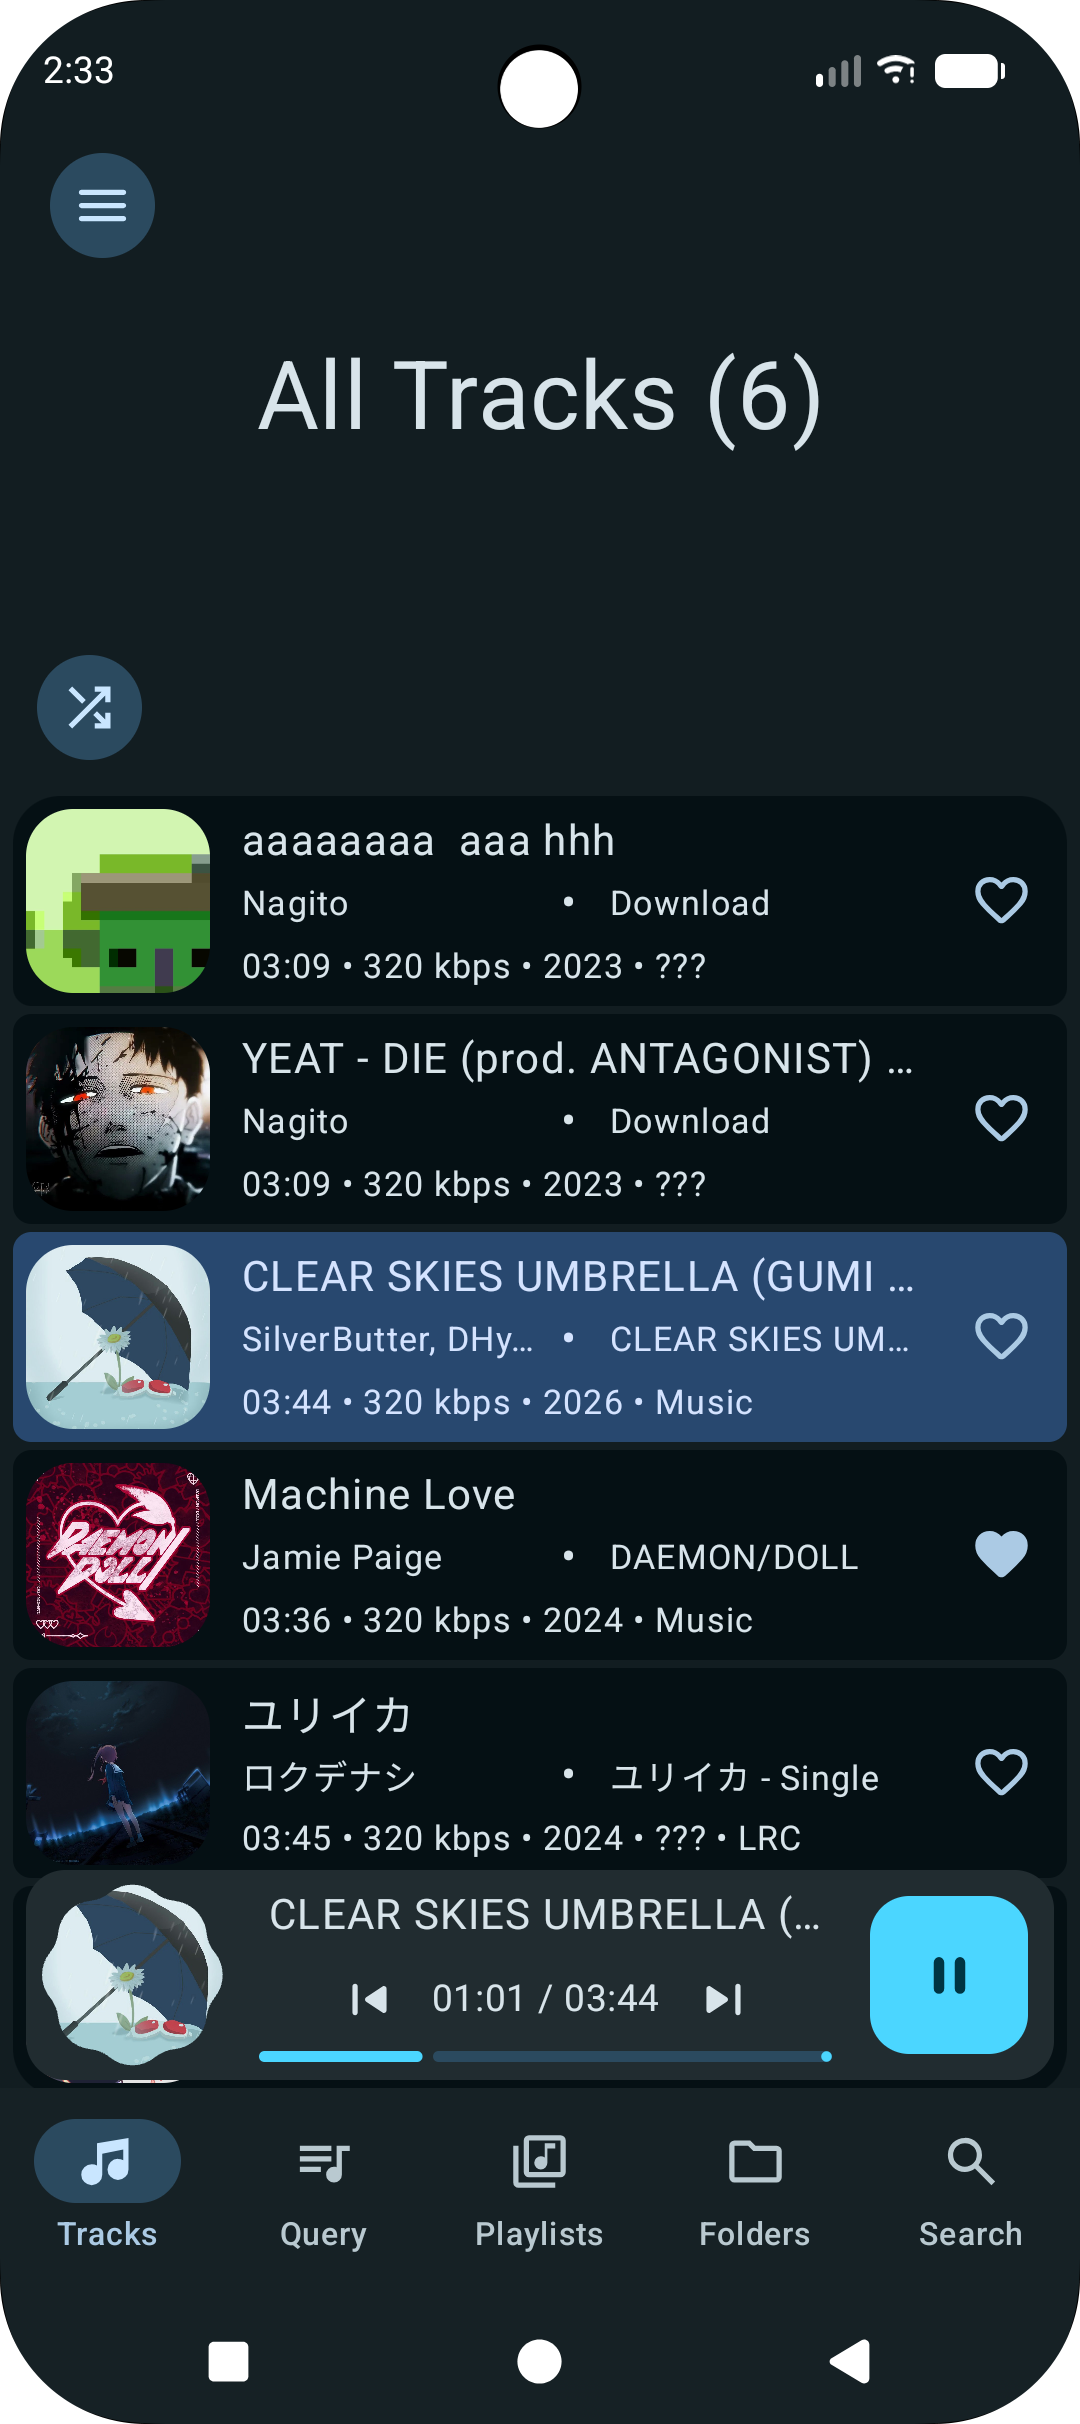
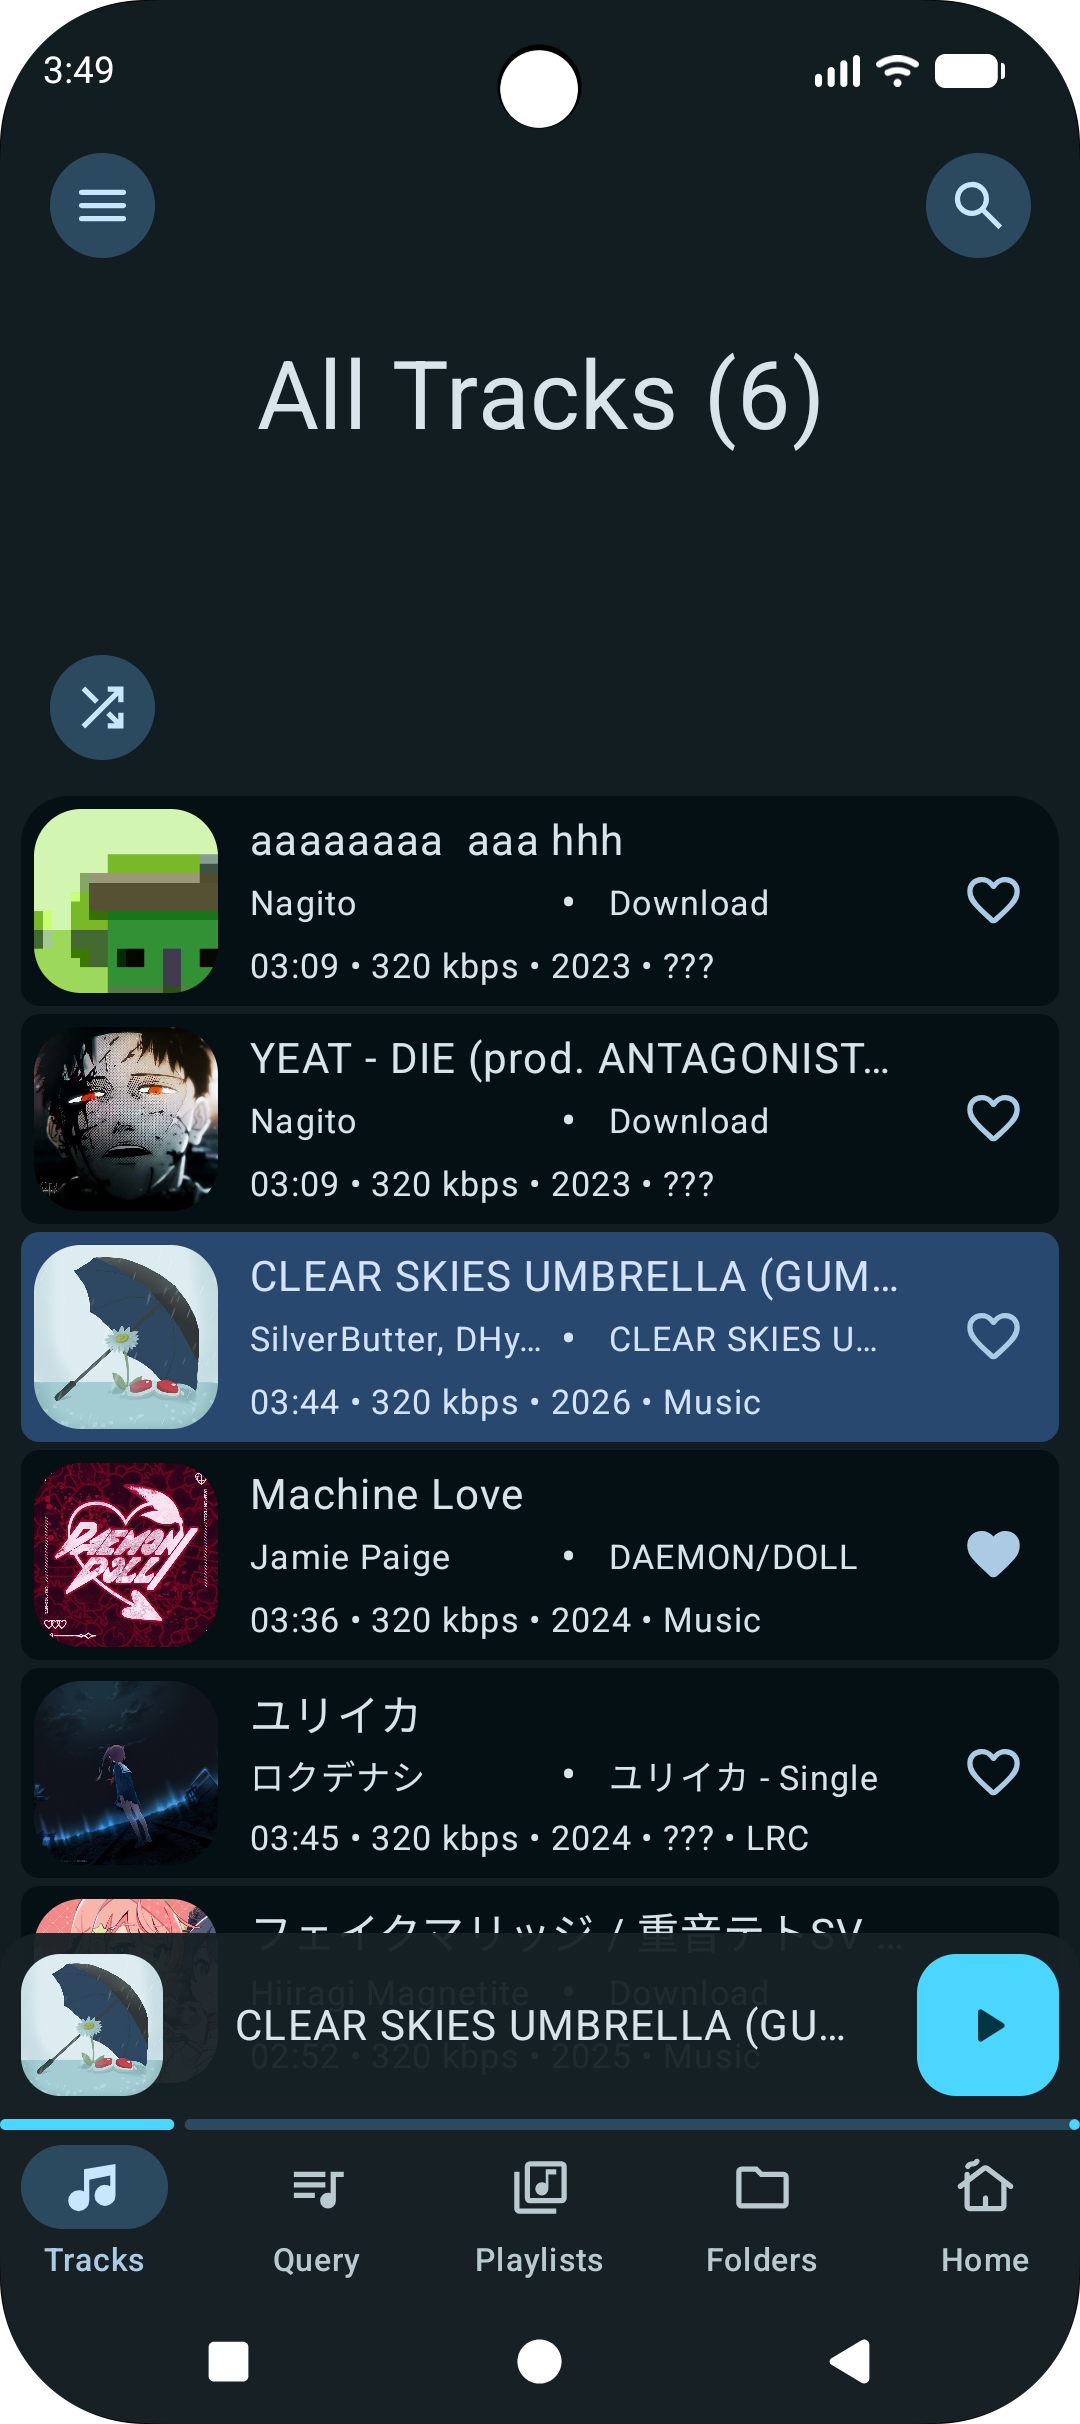
v1.6.0

diff --git a/README.md b/README.md
@@ -33,7 +33,6 @@ To-Do
 
 ## Screenshots
 
-Screenshots are synced with v1.5.20
 
 |                         | Light                          | Dark                           |
 |-------------------------|--------------------------------|--------------------------------|

diff --git a/Changelog.md b/Changelog.md
@@ -1,4 +1,4 @@
-## v1.6.0 (Upcoming)
+## v1.6.0 (Latest)
 
 Mini player:
 - Better mini player & navigation bar
